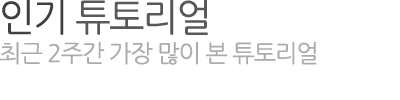
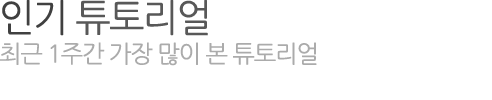
popular_weekly updated

Changed region(s): [[0.0, 0.0, 0.54, 0.36], [0.0, 0.42, 0.81, 0.66]]

diff --git a/app/controllers/welcome_controller.rb b/app/controllers/welcome_controller.rb
@@ -14,9 +14,9 @@ class WelcomeController < ApplicationController
 
 			@events = Event.where('released_at <= ? AND announcement_closed_at >= ?  AND published = TRUE', Time.now, Time.now).order("created_at DESC")
 
-			@best_tutorials = Tutorial.joins("JOIN impressions ON impressions.impressionable_id = tutorials.id").where("impressions.impressionable_type = 'Tutorial' AND (impressions.created_at > CURDATE() - INTERVAL 2 WEEK)").group("impressions.impressionable_id").order("count(impressions.impressionable_id) DESC").limit(2)
+			@best_tutorials = Tutorial.joins("JOIN impressions ON impressions.impressionable_id = tutorials.id").where("impressions.impressionable_type = 'Tutorial' AND (impressions.created_at > CURDATE() - INTERVAL 1 WEEK)").group("impressions.impressionable_id").order("count(impressions.impressionable_id) DESC").limit(2)
 			@latest_tutorials = Tutorial.where(published: true).order("created_at DESC, updated_at DESC").limit(2)
-			@best_items = Item.joins("JOIN impressions ON impressions.impressionable_id = items.id").where("impressions.impressionable_type = 'Item' AND (impressions.created_at > CURDATE() - INTERVAL 2 WEEK)").group("impressions.impressionable_id").order("count(impressions.impressionable_id) DESC").limit(4)
+			@best_items = Item.joins("JOIN impressions ON impressions.impressionable_id = items.id").where("impressions.impressionable_type = 'Item' AND (impressions.created_at > CURDATE() - INTERVAL 1 WEEK)").group("impressions.impressionable_id").order("count(impressions.impressionable_id) DESC").limit(4)
 			@latest_items = Item.where("id IN (?)", Itemization.pluck(:item_id)).order("created_at DESC, updated_at DESC").limit(4)
 			@latest_posts = Post.where(published: true).order("created_at DESC, updated_at DESC").limit(3)
 
@@ -25,9 +25,9 @@ class WelcomeController < ApplicationController
 		else
 			@events = Event.where('released_at <= ? AND announcement_closed_at >= ? AND published = TRUE', Time.now, Time.now).order("created_at DESC")
 
-			@best_tutorials = Tutorial.joins("JOIN impressions ON impressions.impressionable_id = tutorials.id").where("impressions.impressionable_type = 'Tutorial' AND (impressions.created_at > CURDATE() - INTERVAL 2 WEEK)").group("impressions.impressionable_id").order("count(impressions.impressionable_id) DESC").limit(2)
+			@best_tutorials = Tutorial.joins("JOIN impressions ON impressions.impressionable_id = tutorials.id").where("impressions.impressionable_type = 'Tutorial' AND (impressions.created_at > CURDATE() - INTERVAL 1 WEEK)").group("impressions.impressionable_id").order("count(impressions.impressionable_id) DESC").limit(2)
 			@latest_tutorials = Tutorial.where(published: true).order("created_at DESC, updated_at DESC").limit(2)
-			@best_items = Item.joins("JOIN impressions ON impressions.impressionable_id = items.id").where("impressions.impressionable_type = 'Item' AND (impressions.created_at > CURDATE() - INTERVAL 2 WEEK)").group("impressions.impressionable_id").order("count(impressions.impressionable_id) DESC").limit(4)			
+			@best_items = Item.joins("JOIN impressions ON impressions.impressionable_id = items.id").where("impressions.impressionable_type = 'Item' AND (impressions.created_at > CURDATE() - INTERVAL 1 WEEK)").group("impressions.impressionable_id").order("count(impressions.impressionable_id) DESC").limit(4)			
 			@latest_items = Item.where("id IN (?)", Itemization.pluck(:item_id)).order("created_at DESC, updated_at DESC").limit(4)
 			@latest_posts = Post.where(published: true).order("created_at DESC, updated_at DESC").limit(3)
 			@tutorials = @best_tutorials

diff --git a/app/controllers/tutorials_controller.rb b/app/controllers/tutorials_controller.rb
@@ -24,8 +24,8 @@ class TutorialsController < ApplicationController
         @tutorials = Tutorial.where("id NOT in (?) and published=TRUE", Tutorial.joins(:categories).map(&:id)).order("creatd_at DESC").page(params[:page]).per_page(cards_per_page)
     elsif (params[:order].present?) && (params[:order] == "popular")
         @tutorials = Tutorial.where("published=TRUE").order("view_count DESC").page(params[:page]).per_page(cards_per_page)
-    elsif (params[:order] == "popular_last2w")
-        @tutorials = Tutorial.joins("JOIN impressions ON impressions.impressionable_id = tutorials.id").where("impressions.impressionable_type = 'Tutorial' AND (impressions.created_at > CURDATE() - INTERVAL 2 WEEK)").group("impressions.impressionable_id").order("count(impressions.impressionable_id) DESC").page(params[:page]).per_page(cards_per_page)        
+    elsif (params[:order] == "popular_weekly")
+        @tutorials = Tutorial.joins("JOIN impressions ON impressions.impressionable_id = tutorials.id").where("impressions.impressionable_type = 'Tutorial' AND (impressions.created_at > CURDATE() - INTERVAL 1 WEEK)").group("impressions.impressionable_id").order("count(impressions.impressionable_id) DESC").page(params[:page]).per_page(cards_per_page)        
     else      
         @tutorials = Tutorial.where("published=TRUE").order("created_at DESC").page(params[:page]).per_page(cards_per_page)
     end

diff --git a/app/controllers/posts_controller.rb b/app/controllers/posts_controller.rb
@@ -18,8 +18,8 @@ class PostsController < InheritedResources::Base
         @posts = Post.where("id NOT in (?) and published=TRUE", Post.joins(:categories).map(&:id)).order("creatd_at DESC").page(params[:page]).per_page(cards_per_page)
     elsif (params[:order].present?) && (params[:order] == "popular")
         @posts = Post.where("published=TRUE").order("view_count DESC").page(params[:page]).per_page(cards_per_page)
-    elsif (params[:order] == "popular_last2w")
-        @posts = Post.joins("JOIN impressions ON impressions.impressionable_id = posts.id").where("impressions.impressionable_type = 'Post' AND (impressions.created_at > CURDATE() - INTERVAL 2 WEEK)").group("impressions.impressionable_id").order("count(impressions.impressionable_id) DESC").page(params[:page]).per_page(cards_per_page)        
+    elsif (params[:order] == "popular_weekly")
+        @posts = Post.joins("JOIN impressions ON impressions.impressionable_id = posts.id").where("impressions.impressionable_type = 'Post' AND (impressions.created_at > CURDATE() - INTERVAL 1 WEEK)").group("impressions.impressionable_id").order("count(impressions.impressionable_id) DESC").page(params[:page]).per_page(cards_per_page)        
     else      
         @posts = Post.where("published=TRUE").order("created_at DESC").page(params[:page]).per_page(cards_per_page)
     end

diff --git a/app/controllers/items_controller.rb b/app/controllers/items_controller.rb
@@ -18,8 +18,8 @@ class ItemsController < ApplicationController
     else
       if (params[:order].present?) && (params[:order] == "popular")
         @items = Item.where("id IN (?)", Itemization.pluck(:item_id)).order("view_count DESC").page(params[:page]).per_page(cards_per_page)
-      elsif (params[:order] == "popular_last2w")
-        @items = Item.joins("JOIN impressions ON impressions.impressionable_id = items.id").where("impressions.impressionable_type = 'Item' AND (impressions.created_at > CURDATE() - INTERVAL 2 WEEK)").group("impressions.impressionable_id").order("count(impressions.impressionable_id) DESC").page(params[:page]).per_page(cards_per_page)
+      elsif (params[:order] == "popular_weekly")
+        @items = Item.joins("JOIN impressions ON impressions.impressionable_id = items.id").where("impressions.impressionable_type = 'Item' AND (impressions.created_at > CURDATE() - INTERVAL 1 WEEK)").group("impressions.impressionable_id").order("count(impressions.impressionable_id) DESC").page(params[:page]).per_page(cards_per_page)
       elsif user_signed_in? && current_user.can_create?(Item)
         @items = Item.order("created_at DESC").page(params[:page]).per_page(cards_per_page)
       else
